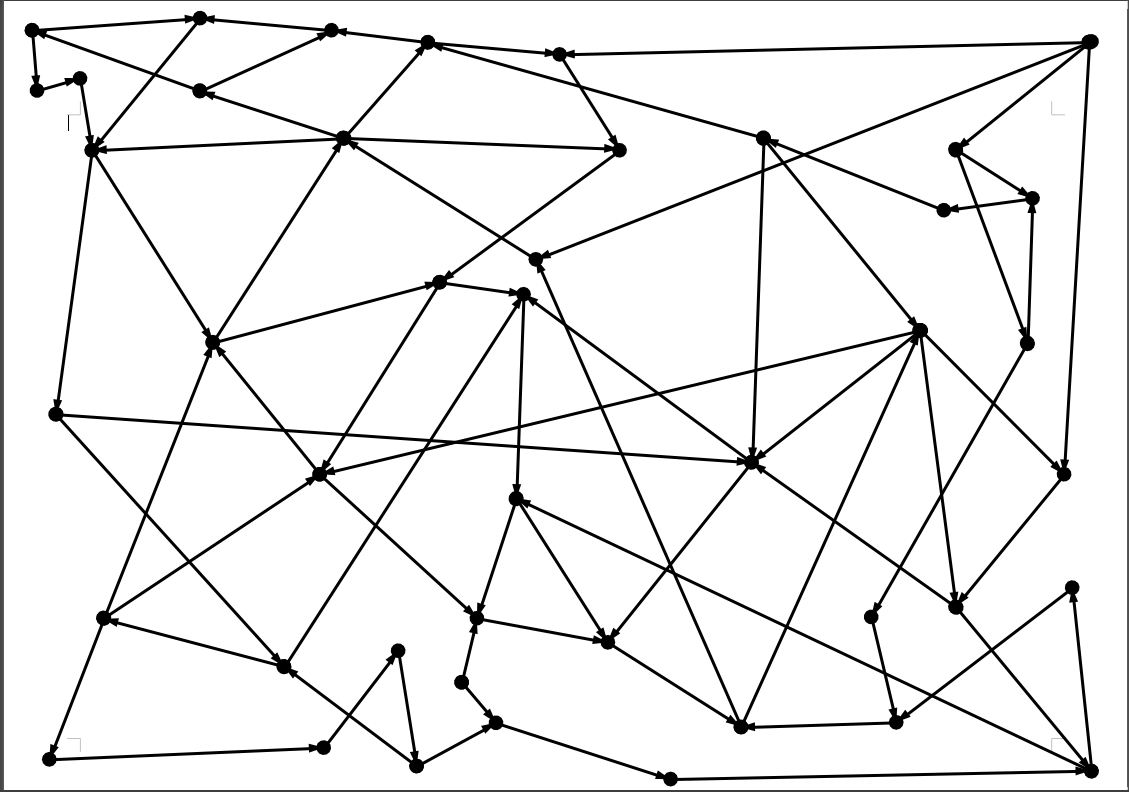
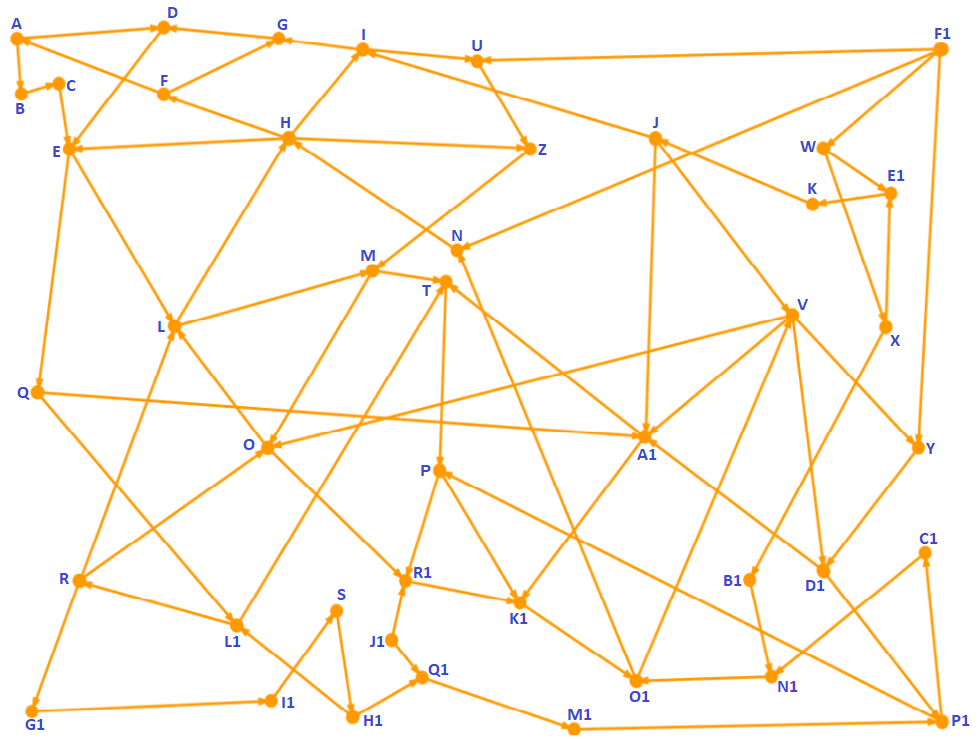
Bug fixes and improvements

diff --git a/gui.py b/gui.py
@@ -16,8 +16,12 @@ class Window(QWidget):
         self.graph = None
         self.src_input = QLineEdit()
         self.dest_input = QLineEdit()
+        self.result_label = QLabel()
         self.canvas_label = QLabel()
+        self.canvas_label.setMinimumSize(978, 739)
+        self.canvas_label.setMaximumSize(978, 739)
         self.vbox = QVBoxLayout()
+        self.setStyleSheet("background: white")
         self.init_graph()
         self.init_ui()
         self.init_topbar()
@@ -39,7 +43,7 @@ class Window(QWidget):
         screen_rect = desktop.screenGeometry()
         window_h = screen_rect.height()
         window_w = screen_rect.width()
-        self.setMaximumSize(self.width, self.height)
+        # self.setMaximumSize(self.width, self.height)
         self.setMinimumSize(self.width, self.height)
         self.setGeometry(int((window_w-self.width)/2), int((window_h-self.height)/2), self.width, self.height)
         self.setWindowTitle("Graph Window")
@@ -59,6 +63,8 @@ class Window(QWidget):
         submit_btn.clicked.connect(self.find_shortest_path)
         left_spacer = QSpacerItem(40, 20, QtWidgets.QSizePolicy.Expanding, QtWidgets.QSizePolicy.Fixed)
         right_spacer = QSpacerItem(40, 20, QtWidgets.QSizePolicy.Expanding, QtWidgets.QSizePolicy.Fixed)
+        tw_label = QLabel("Total weight: ")
+        self.result_label.setMinimumWidth(30)
 
         hbox.addSpacerItem(left_spacer)
         hbox.addWidget(src_label)
@@ -67,23 +73,42 @@ class Window(QWidget):
         hbox.addWidget(self.dest_input)
         hbox.addWidget(submit_btn)
         hbox.addSpacerItem(right_spacer)
+        hbox.addWidget(tw_label)
+        hbox.addWidget(self.result_label)
         self.vbox.addLayout(hbox)
 
     def init_canvas(self):
         self.canvas_label.setSizePolicy(QtWidgets.QSizePolicy.Preferred, QtWidgets.QSizePolicy.Expanding)
-        canvas = QtGui.QPixmap("map.jpg")
+        canvas = QtGui.QPixmap("graph.png")
         self.canvas_label.setPixmap(canvas)
-        self.vbox.addWidget(self.canvas_label)
+        vspacer = QSpacerItem(40, 20, QtWidgets.QSizePolicy.Fixed, QtWidgets.QSizePolicy.Expanding)
+        self.vbox.addSpacerItem(vspacer)
+        self.vbox.addWidget(self.canvas_label, alignment=QtCore.Qt.AlignCenter)
+        vspacer = QSpacerItem(40, 20, QtWidgets.QSizePolicy.Fixed, QtWidgets.QSizePolicy.Expanding)
+        self.vbox.addSpacerItem(vspacer)
 
     def find_shortest_path(self):
-        source = self.src_input.text()
-        destination = self.dest_input.text()
+        source = self.src_input.text().upper().strip()
+        destination = self.dest_input.text().upper().strip()
+        if not source or not destination:
+            if not source and not destination:
+                self.show_error_msg("Please specify the SOURCE and DESTINATION!")
+                return
+            elif not source:
+                self.show_error_msg("Please specify the SOURCE!")
+                return
+            else:
+                self.show_error_msg("Please specify the DESTINATION!")
+                return
         flag, result = self.graph.shortest_path(source, destination)
         if not flag:
+            self.canvas_label.setPixmap(QtGui.QPixmap("graph.png"))
             self.show_error_msg(result)
         else:
-            shortest_path = result
-            self.draw_shortest_path(shortest_path)
+            self.result_label.setText(str(result[-1]))
+            self.canvas_label.setPixmap(QtGui.QPixmap("graph.png"))
+            self.draw_shortest_path(result)
+
 
     def show_error_msg(self, msg):
         msgbox = QMessageBox(self)
@@ -95,11 +120,10 @@ class Window(QWidget):
     def draw_shortest_path(self, path):
         total_weight = path[-1]
         path = path[:-1]
-        self.canvas_label.setPixmap(QtGui.QPixmap("map.jpg"))
         painter = QtGui.QPainter(self.canvas_label.pixmap())
         pen = QtGui.QPen()
-        pen.setWidth(5)
-        pen.setColor(QtGui.QColor("red"))
+        pen.setWidth(4)
+        pen.setColor(QtGui.QColor("#249c00"))
         painter.setPen(pen)
         point_list = []
         for x in path:
@@ -109,18 +133,6 @@ class Window(QWidget):
             ))
         polygon = QtGui.QPolygonF(point_list)
         painter.drawPolyline(polygon)
-
-        # for i in range(len(path)-1):
-        #     point_list.append([
-        #         self.graph.coordinate_of_vertices[path[i]][0],
-        #         self.graph.coordinate_of_vertices[path[i]][1],
-        #         self.graph.coordinate_of_vertices[path[i+1]][0],
-        #         self.graph.coordinate_of_vertices[path[i+1]][1]
-        #     ])
-        # for line in point_list:
-        #     painter.drawLine(line[0], line[1], line[2], line[3])
-        #     self.update()
-        #     time.sleep(1)
         time.sleep(0.5)
         self.update()
         painter.end()

diff --git a/Models.py b/Models.py
@@ -1,28 +1,124 @@
 edges = {
-    1: ('A', 'B', 1),
-    2: ('A', 'E', 6),
-    3: ('A', 'C', 8),
-    4: ('B', 'A', 1),
-    5: ('B', 'D', 3),
-    6: ('B', 'E', 2),
-    7: ('C', 'A', 8),
-    8: ('C', 'F', 5),
-    9: ('C', 'G', 7),
-    10: ('D', 'B', 3),
-    11: ('D', 'E', 4),
-    12: ('E', 'A', 6),
-    13: ('E', 'B', 2),
-    14: ('E', 'D', 4),
-    15: ('F', 'C', 5),
-    16: ('G', 'C', 7)
+    1: ('A', 'B', 20),
+    2: ('A', 'D', 16),
+    3: ('B', 'C', 7),
+    4: ('C', 'E', 17),
+    5: ('D', 'E', 9),
+    6: ('E', 'L', 4),
+    7: ('E', 'Q', 8),
+    8: ('F', 'A', 12),
+    9: ('F', 'G', 3),
+    10: ('G', 'D', 15),
+    11: ('H', 'Z', 17),
+    12: ('H', 'I', 1),
+    13: ('H', 'F', 11),
+    14: ('H', 'E', 11),
+    15: ('I', 'G', 18),
+    16: ('I', 'U', 17),
+    17: ('J', 'I', 12),
+    18: ('J', 'A1', 17),
+    19: ('J', 'V', 12),
+    20: ('K', 'J', 19),
+    21: ('L', 'H', 11),
+    22: ('L', 'M', 18),
+    23: ('M', 'O', 6),
+    24: ('M', 'T', 1),
+    25: ('N', 'H', 7),
+    26: ('O', 'L', 17),
+    27: ('O', 'R1', 13),
+    28: ('P', 'R1', 20),
+    29: ('P', 'K1', 8),
+    30: ('Q', 'A1', 7),
+    31: ('Q', 'L1', 20),
+    32: ('R', 'L', 3),
+    33: ('R', 'O', 19),
+    34: ('R', 'G1', 16),
+    35: ('S', 'H1', 10),
+    36: ('T', 'P', 15),
+    37: ('U', 'Z', 12),
+    38: ('V', 'O', 2),
+    39: ('V', 'A1', 16),
+    40: ('V', 'D1', 7),
+    41: ('V', 'Y', 1),
+    42: ('W', 'E1', 10),
+    43: ('W', 'X', 5),
+    44: ('X', 'E1', 1),
+    45: ('X', 'B1', 11),
+    46: ('Y', 'D1', 10),
+    47: ('Z', 'M', 7),
+    48: ('A1', 'T', 8),
+    49: ('A1', 'K1', 5),
+    50: ('B1', 'N1', 19),
+    51: ('C1', 'N1', 7),
+    52: ('D1', 'A1', 14),
+    53: ('D1', 'P1', 13),
+    54: ('E1', 'K', 7),
+    55: ('F1', 'U', 16),
+    56: ('F1', 'N', 9),
+    57: ('F1', 'W', 8),
+    58: ('F1', 'Y', 4),
+    59: ('G1', 'I1', 13),
+    60: ('H1', 'L1', 19),
+    61: ('H1', 'Q1', 12),
+    62: ('I1', 'S', 18),
+    63: ('J1', 'R1', 3),
+    64: ('J1', 'Q1', 15),
+    65: ('K1', 'O1', 4),
+    66: ('L1', 'R', 1),
+    67: ('L1', 'T', 10),
+    68: ('M1', 'P1', 16),
+    69: ('N1', 'O1', 14),
+    70: ('O1', 'N', 7),
+    71: ('O1', 'V', 7),
+    72: ('P1', 'C1', 1),
+    73: ('P1', 'P', 10),
+    74: ('Q1', 'M1', 8),
+    75: ('R1', 'K1', 13)
 }
 
 vertex_list = {
-    1: ('A', 325, 134),
-    2: ('B', 547, 136),
-    3: ('C', 660, 278),
-    4: ('D', 632, 432),
-    5: ('E', 478, 499),
-    6: ('F', 293, 463),
-    7: ('G', 191, 295)
+    1: ('A', 16, 38),
+    2: ('B', 21, 94),
+    3: ('C', 59, 83),
+    4: ('D', 163, 27),
+    5: ('E', 69, 148),
+    6: ('F', 163, 94),
+    7: ('G', 279, 38),
+    8: ('H', 289, 138),
+    9: ('I', 363, 49),
+    10: ('J', 656, 138),
+    11: ('K', 812, 204),
+    12: ('L', 175, 326),
+    13: ('M', 372, 270),
+    14: ('N', 457, 250),
+    15: ('O', 267, 447),
+    16: ('P', 439, 470),
+    17: ('Q', 37, 393),
+    18: ('R', 79, 581),
+    19: ('S', 336, 610),
+    20: ('T', 446, 281),
+    21: ('U', 477, 61),
+    22: ('V', 792, 314),
+    23: ('W', 823, 148),
+    24: ('X', 886, 327),
+    25: ('Y', 919, 448),
+    26: ('Z', 530, 148),
+    27: ('A1', 644, 437),
+    28: ('B1', 750, 580),
+    29: ('C1', 925, 552),
+    30: ('D1', 823, 571),
+    31: ('E1', 891, 193),
+    32: ('F1', 941, 48),
+    33: ('G1', 31, 712),
+    34: ('H1', 352, 717),
+    35: ('I1', 271, 701),
+    36: ('J1', 391, 640),
+    37: ('K1', 520, 603),
+    38: ('L1', 236, 625),
+    39: ('M1', 574, 729),
+    40: ('N1', 772, 676),
+    41: ('O1', 637, 681),
+    42: ('P1', 942, 722),
+    43: ('Q1', 422, 677),
+    44: ('R1', 405, 581)
 }

diff --git a/main.py b/main.py
@@ -50,10 +50,6 @@ class Graph:
                     # Condition to check if the neighbour node is the destination
                     if neighbour[0] == d:
                         connection_exist = True
-                        # shortest_path = []
-                        # for i in range(len(new_path)-1):
-                        #     shortest_path.append([new_path[i], new_path[i+1]])
-                        # print("Shortest path = ", new_path)
                         all_paths.append(new_path)
                     explored.append(node)
         # Condition when the nodes are not connected
